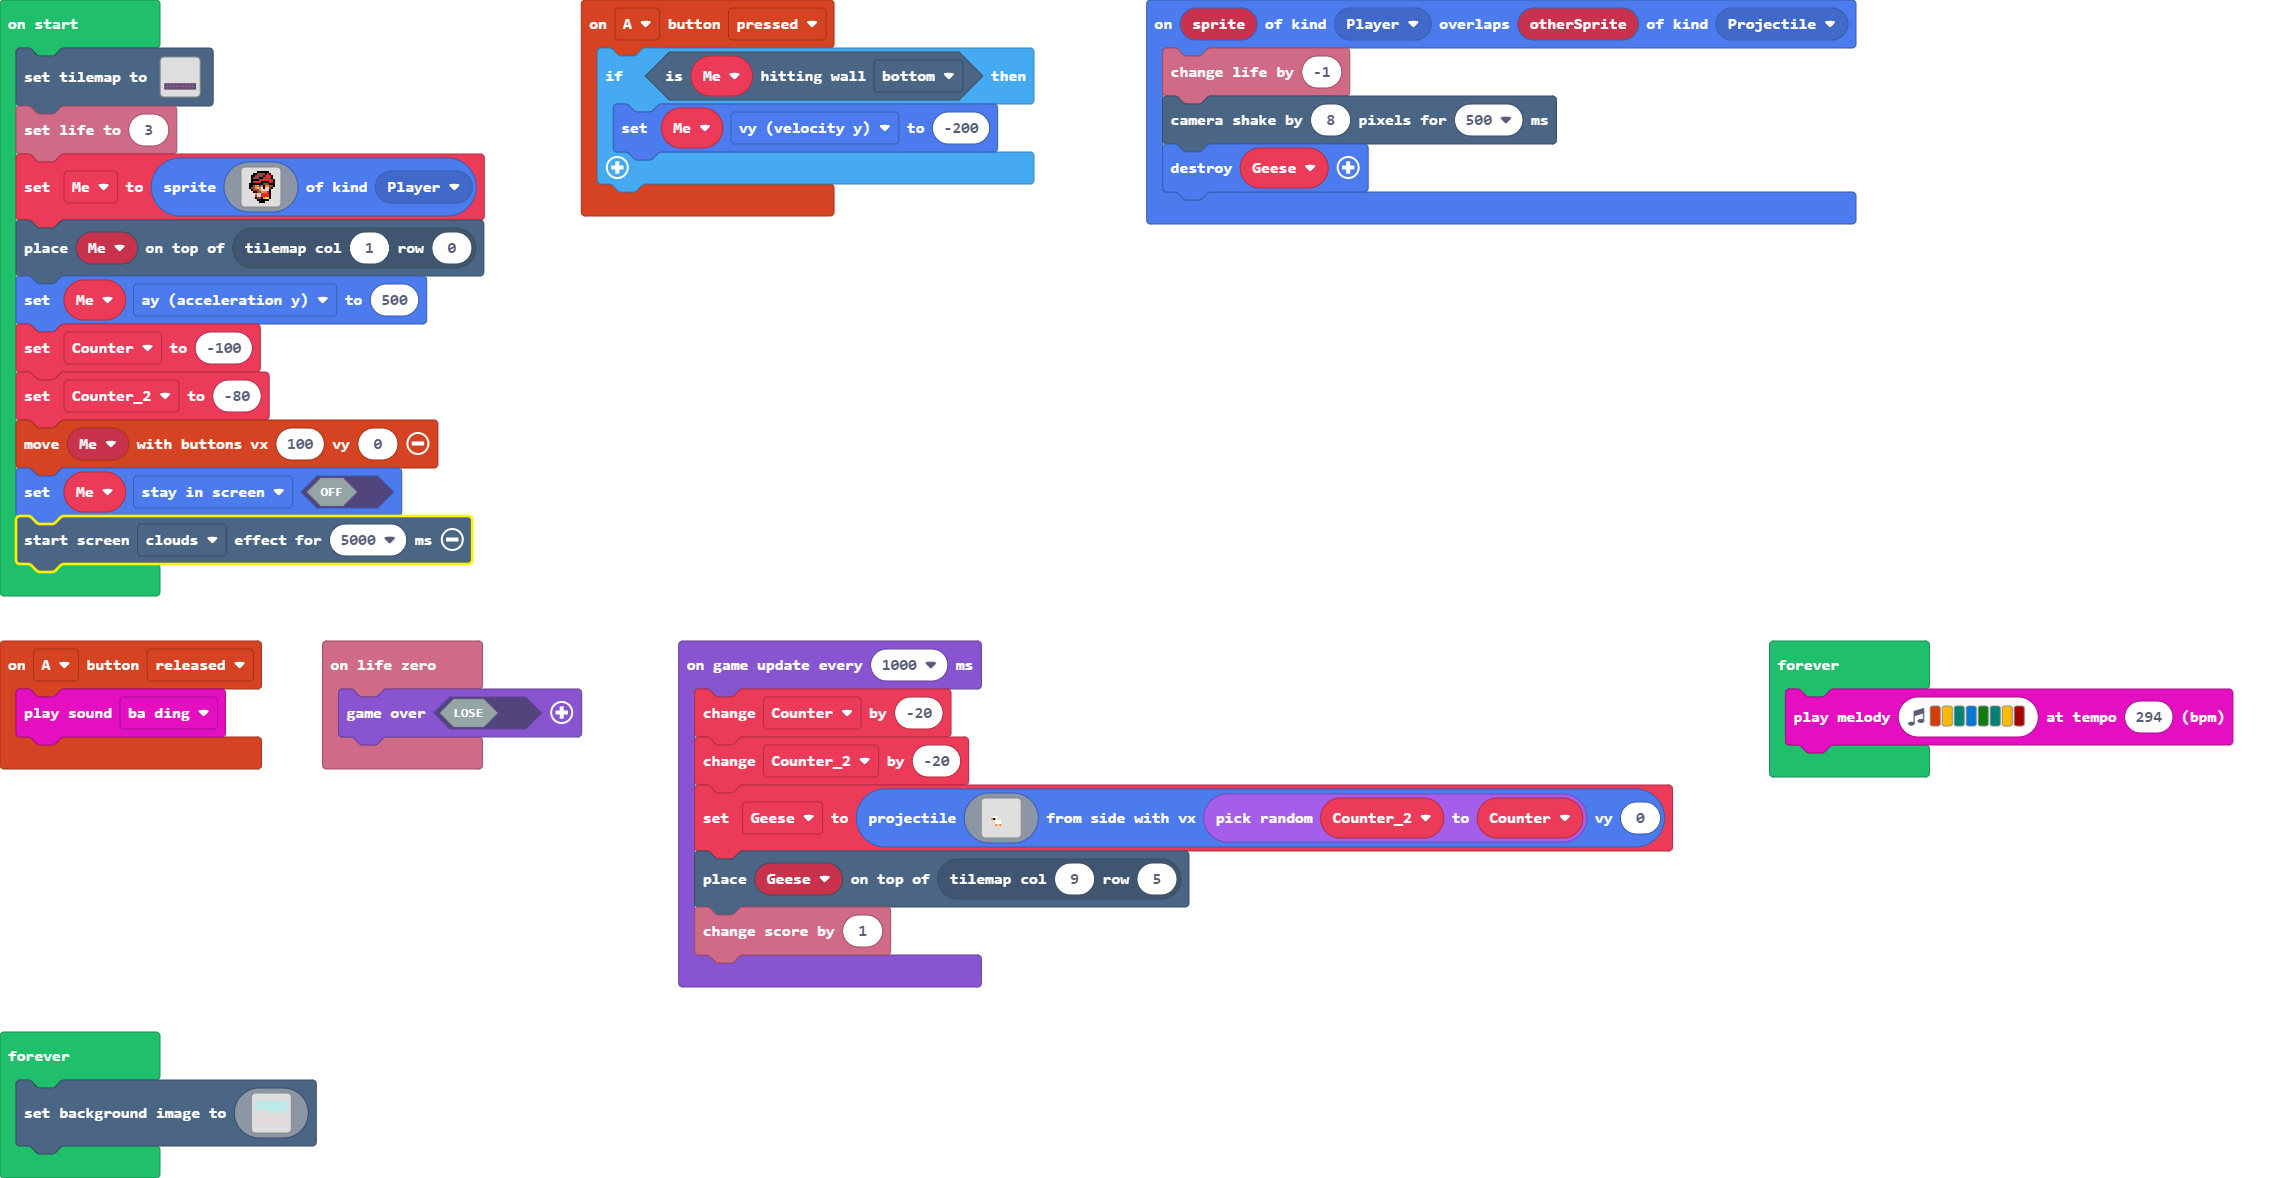
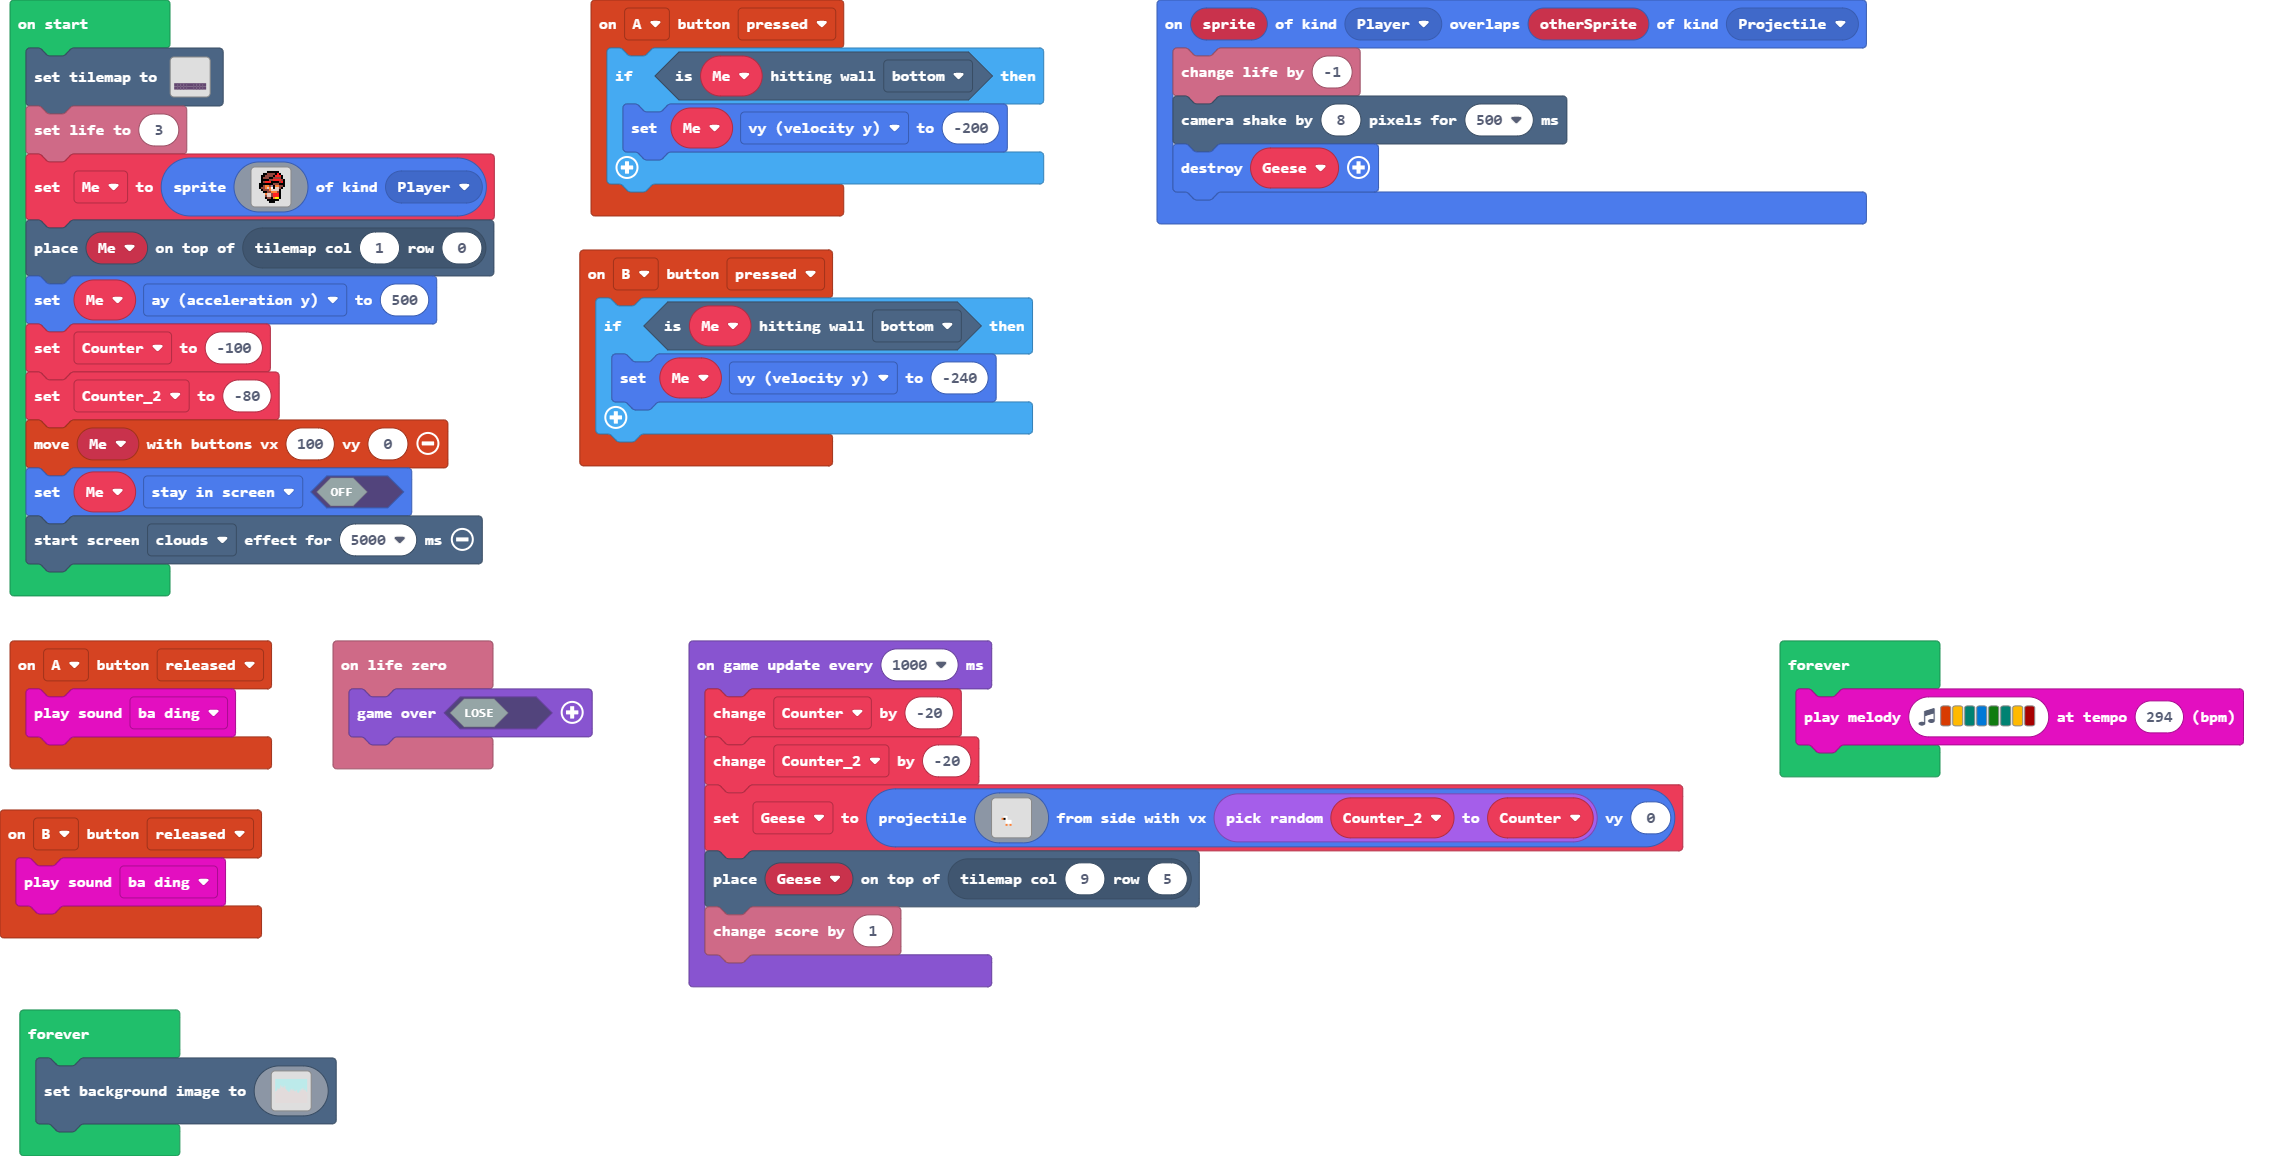
Update main.blocks, main.ts

diff --git a/main.ts b/main.ts
@@ -1,3 +1,8 @@
+controller.B.onEvent(ControllerButtonEvent.Pressed, function () {
+    if (Me.isHittingTile(CollisionDirection.Bottom)) {
+        Me.vy = -240
+    }
+})
 controller.A.onEvent(ControllerButtonEvent.Pressed, function () {
     if (Me.isHittingTile(CollisionDirection.Bottom)) {
         Me.vy = -200
@@ -13,6 +18,9 @@ controller.A.onEvent(ControllerButtonEvent.Released, function () {
 })
 info.onLifeZero(function () {
     game.over(false)
+})
+controller.B.onEvent(ControllerButtonEvent.Released, function () {
+    music.baDing.play()
 })
 let Geese: Sprite = null
 let Me: Sprite = null
